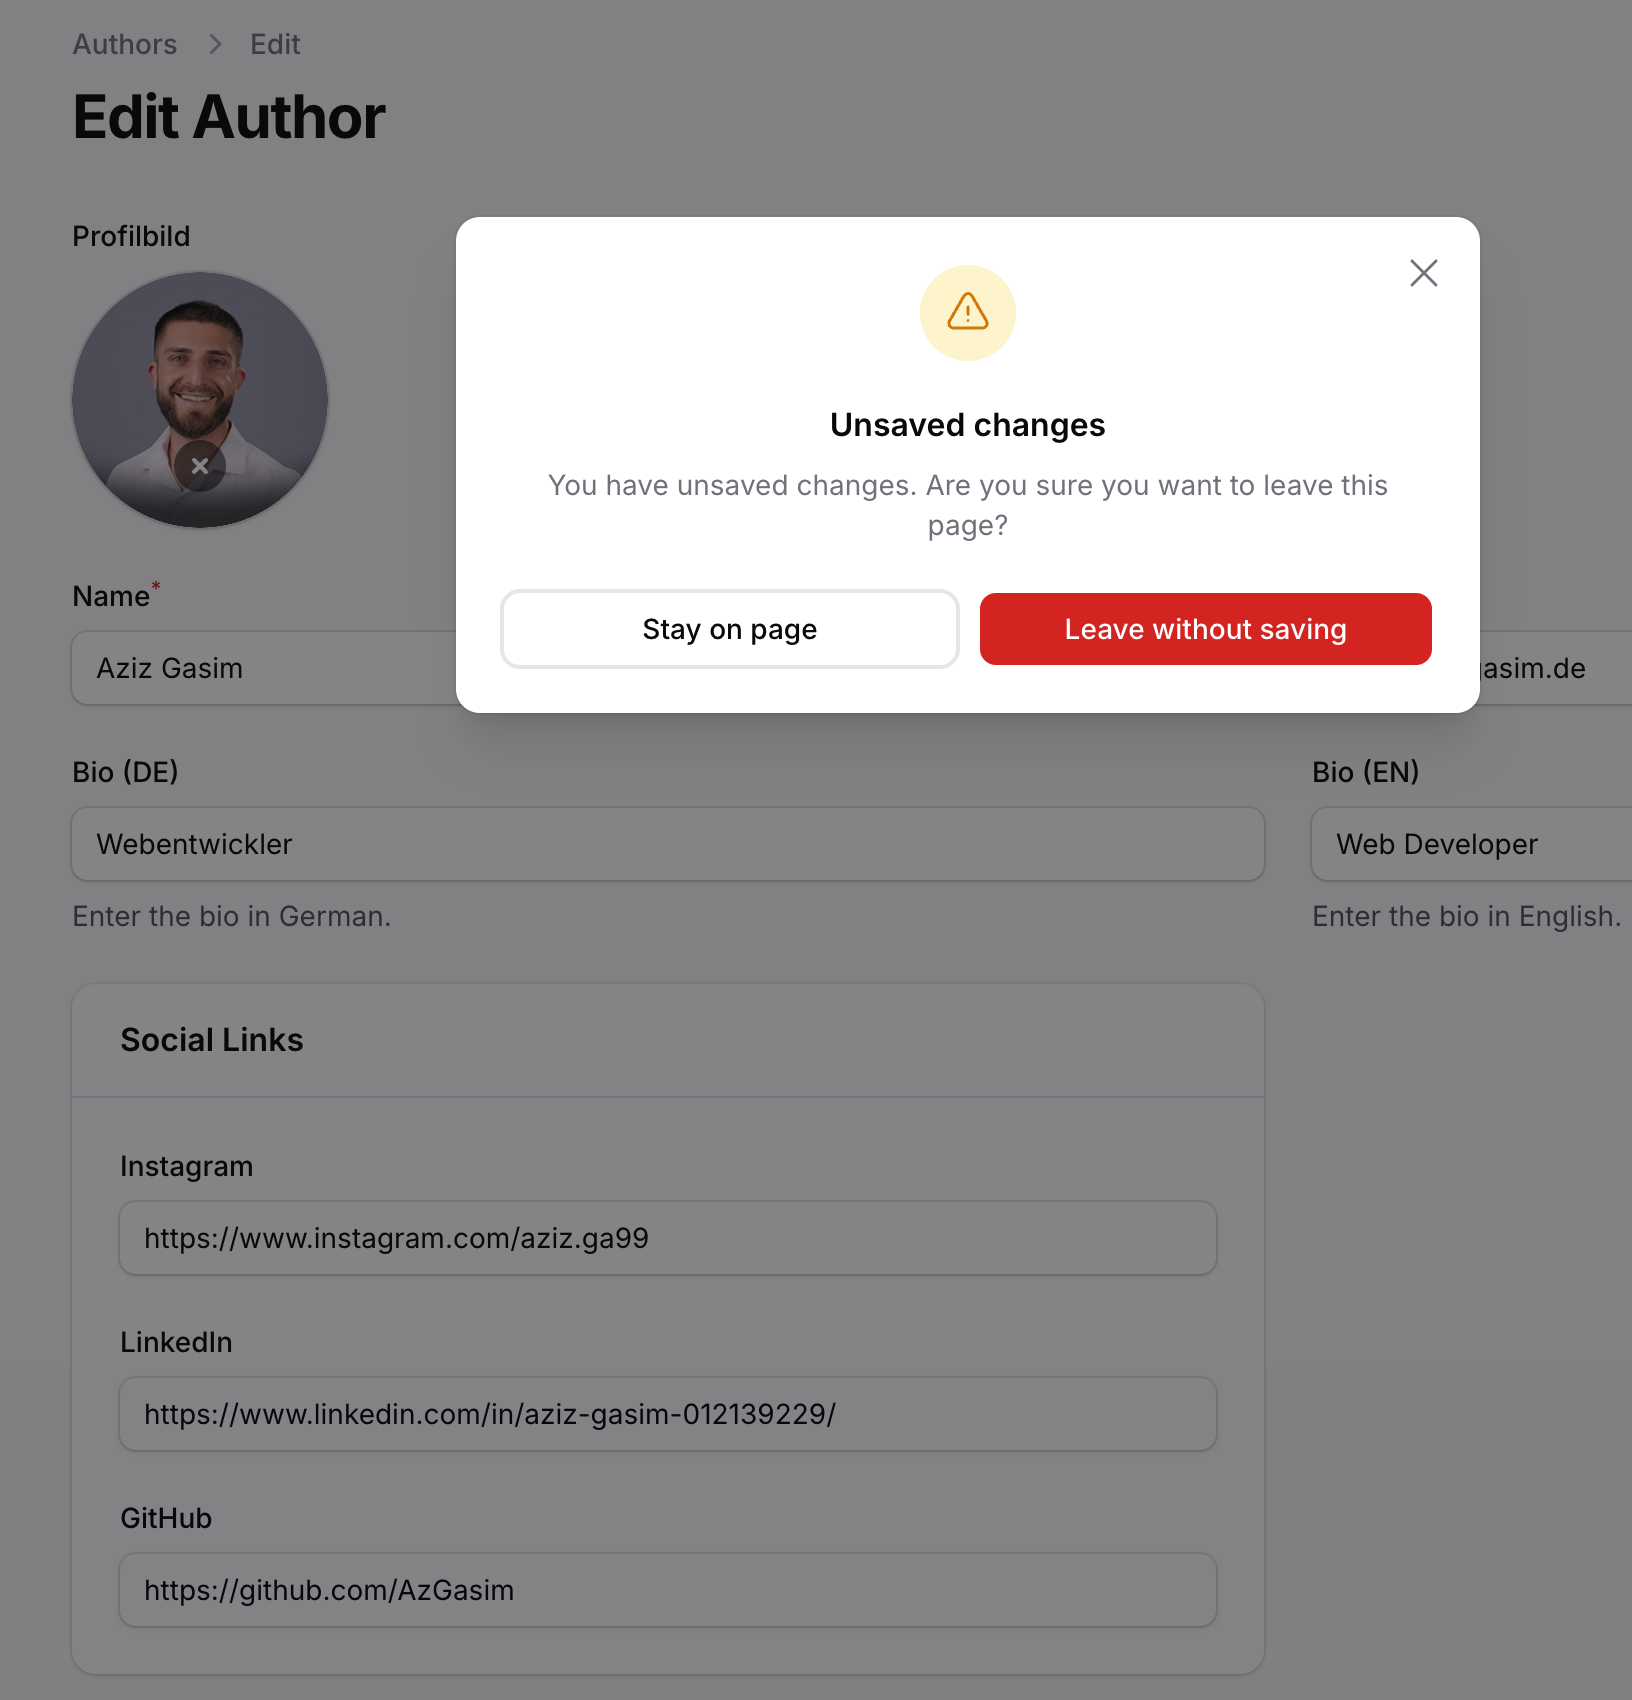
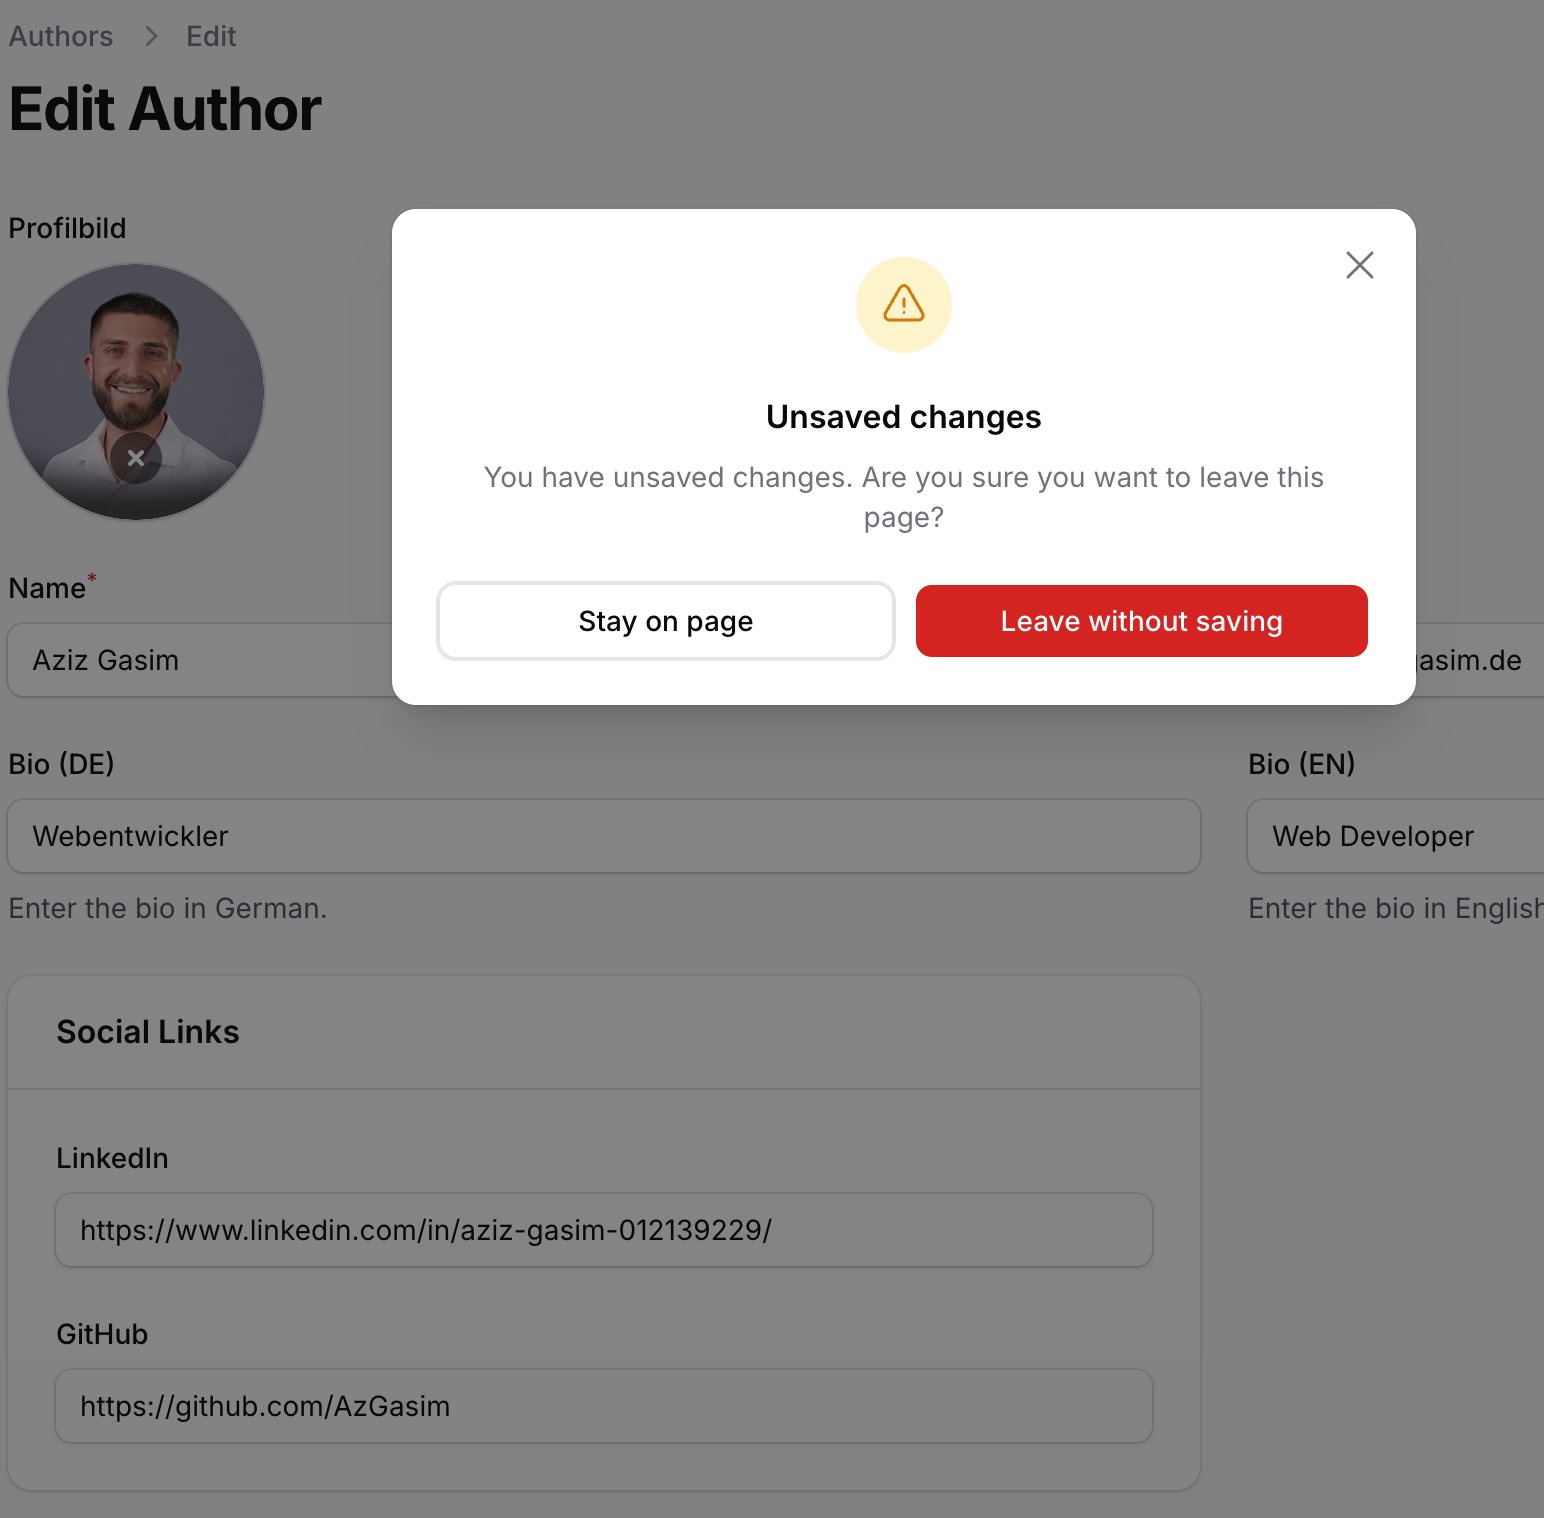
README

diff --git a/README.md b/README.md
@@ -1,4 +1,4 @@
-![Unsaved changes: Filament modal instead of the browser dialog](art/unsaved_changes_modal_thumb.png)
+![Unsaved changes: Filament modal instead of the browser dialog](art/unsaved_thumb.png)
 
 # Filament Unsaved Changes Modal
 
